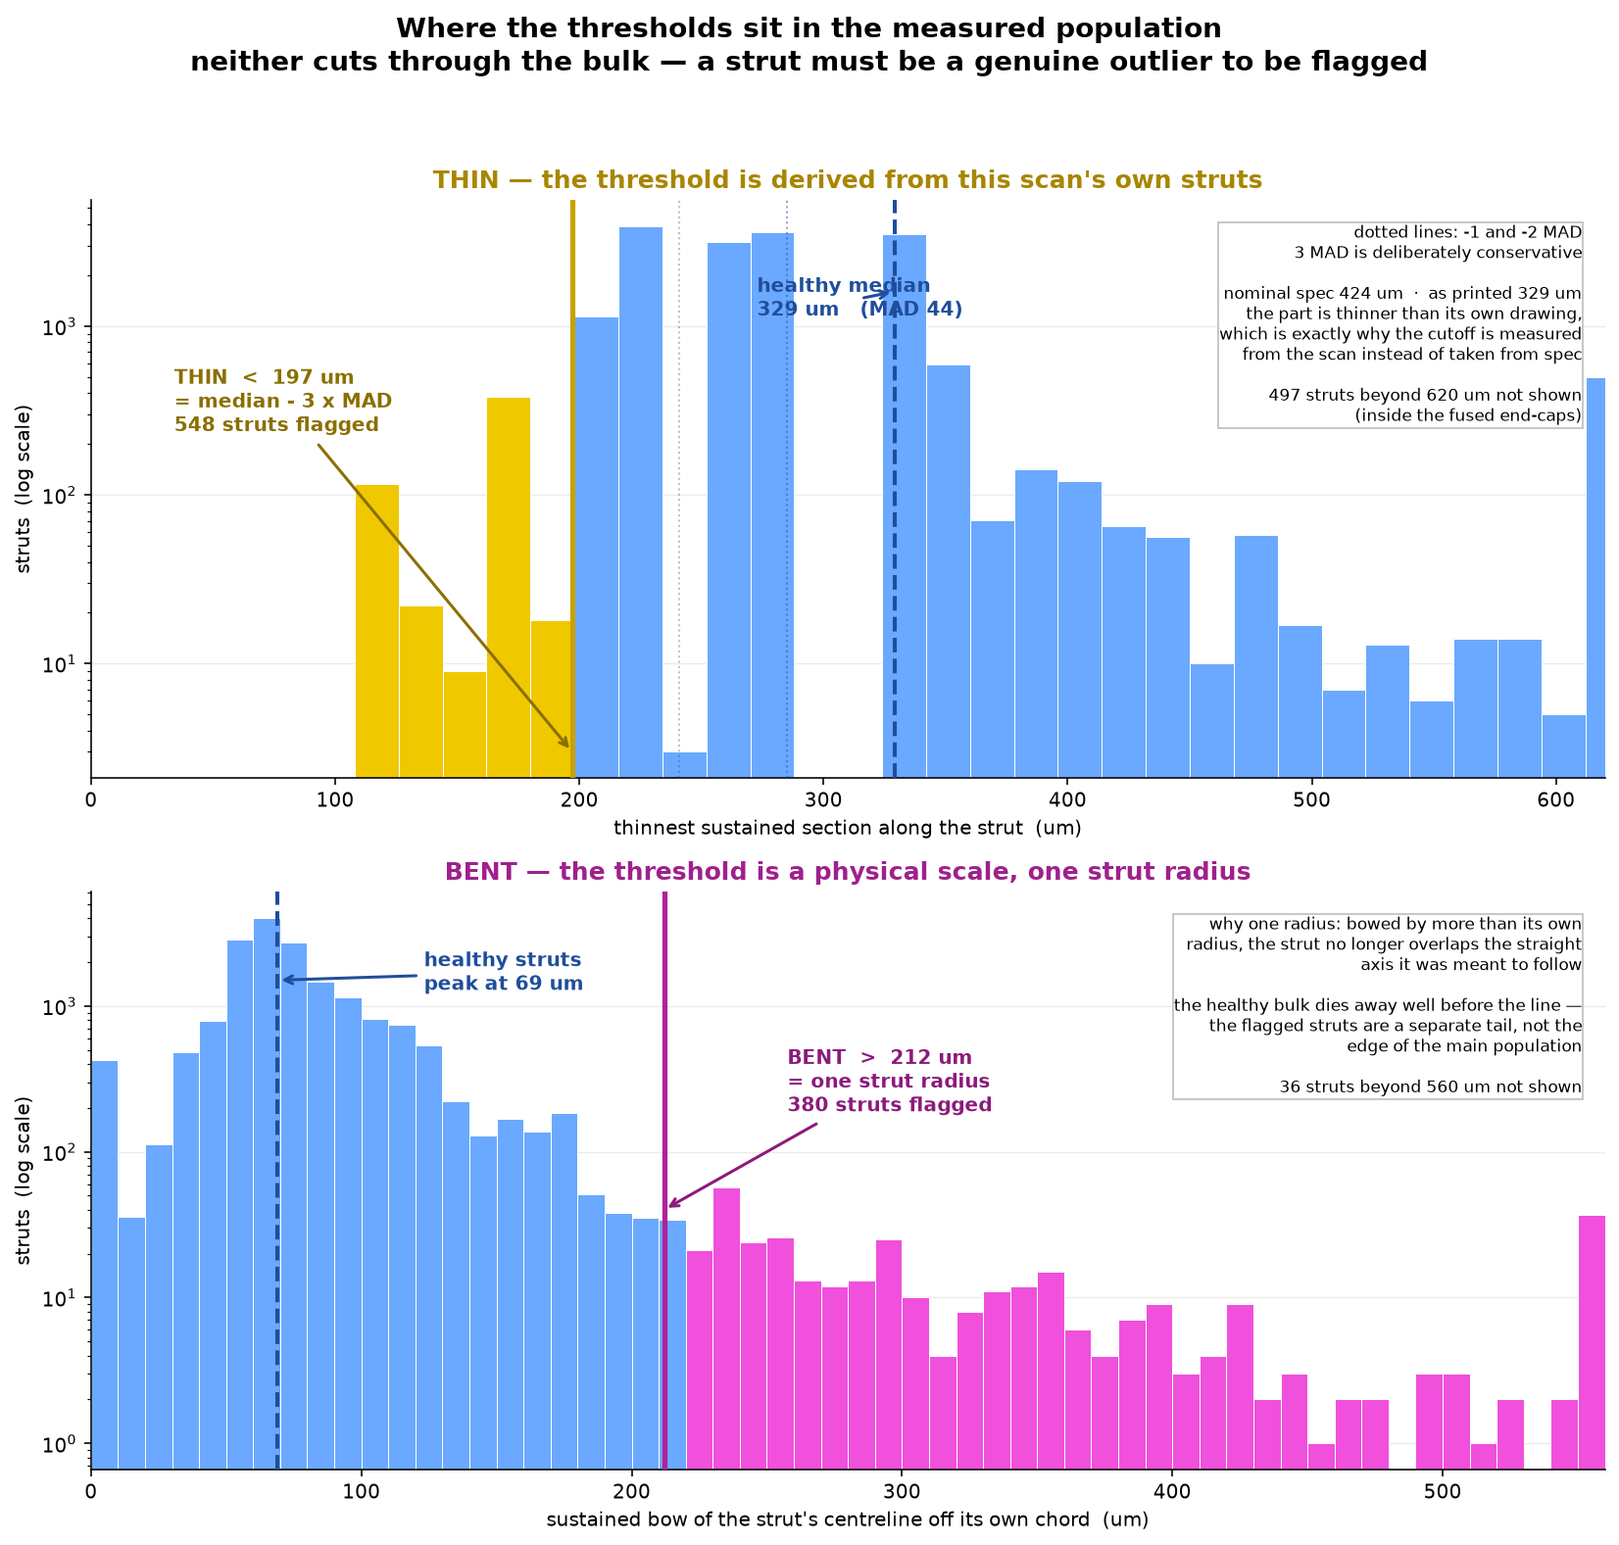
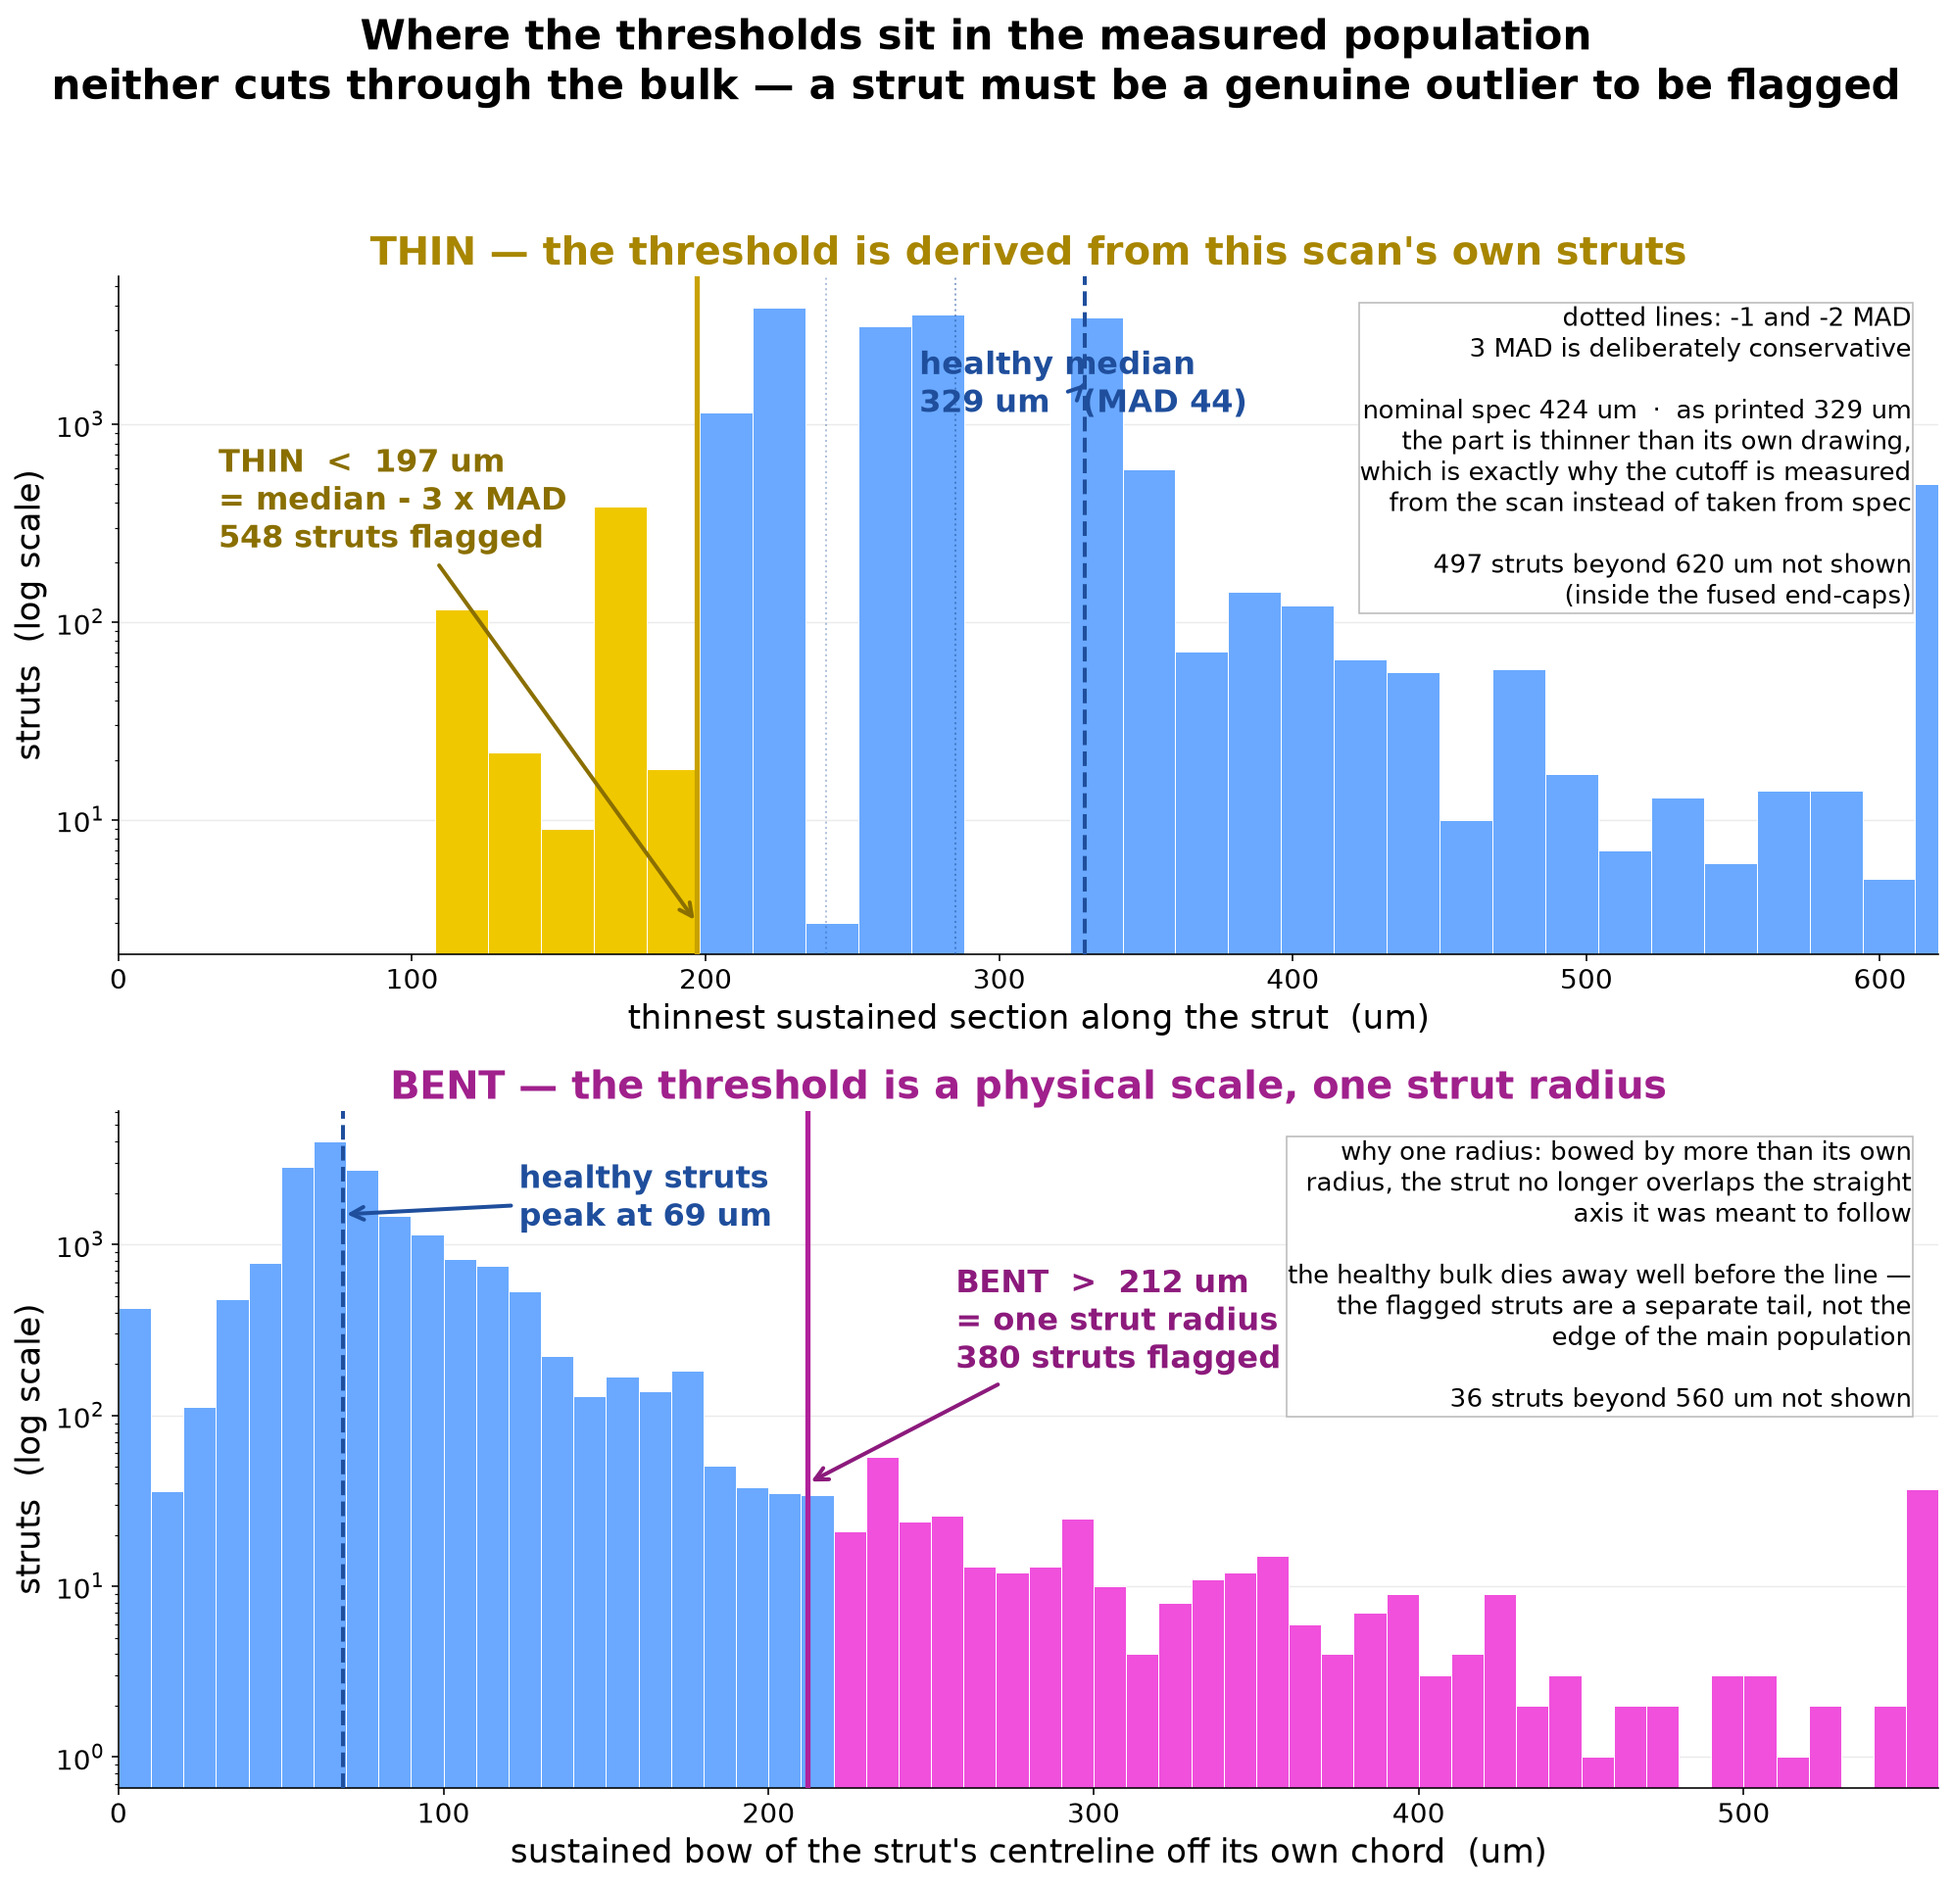
Scale up the threshold figures for presentation
Type sizes were set for reading on a page; these get read off a slide. Titles
19-20pt, axis labels 17pt, callouts 16pt, ticks 14pt, and the canvas grown to
match so nothing crowds. Also moved the "healthy median" annotation, whose
arrow was cutting through its own text.

Numbers are unchanged: thin < 197 um (548 flagged), bent > 212 um (380 flagged).

diff --git a/analysis/defect_detection/v2/plot_thresholds.py b/analysis/defect_detection/v2/plot_thresholds.py
@@ -20,6 +20,15 @@ import matplotlib
 matplotlib.use("Agg")
 import matplotlib.pyplot as plt
 
+# presentation-scale type: these figures are read from a slide, not a page
+plt.rcParams.update({
+    "font.size": 15,
+    "axes.titlesize": 19,
+    "axes.labelsize": 16,
+    "xtick.labelsize": 14,
+    "ytick.labelsize": 14,
+})
+
 V2 = Path(__file__).resolve().parent
 sys.path.insert(0, str(V2))
 from detect_v2 import OUT_JSON, UM, NOM_D  # noqa: E402
@@ -66,18 +75,18 @@ def thin_panel(ax, S, thr):
     n_flag = int((v < cut).sum())
     ax.set_yscale("log")
     ax.set_xlim(0, hi)
-    ax.set_xlabel("thinnest sustained section along the strut  (um)", fontsize=10)
-    ax.set_ylabel("struts  (log scale)", fontsize=10)
+    ax.set_xlabel("thinnest sustained section along the strut  (um)", fontsize=17)
+    ax.set_ylabel("struts  (log scale)", fontsize=17)
     ax.set_title("THIN — the threshold is derived from this scan's own struts",
-                 fontsize=12.5, fontweight="bold", color="#a88600")
+                 fontsize=20, fontweight="bold", color="#a88600")
     ax.annotate(f"THIN  <  {cut:.0f} um\n= median - 3 x MAD\n{n_flag:,} struts flagged",
                 xy=(cut, 3), xytext=(0.055, 0.60), textcoords="axes fraction",
-                fontsize=10, fontweight="bold", color="#8a6f00",
-                arrowprops=dict(arrowstyle="->", color="#8a6f00", lw=1.5))
+                fontsize=16, fontweight="bold", color="#8a6f00",
+                arrowprops=dict(arrowstyle="->", color="#8a6f00", lw=2.0))
     ax.annotate(f"healthy median\n{med:.0f} um   (MAD {mad:.0f})",
                 xy=(med, 1600), xytext=(0.44, 0.80), textcoords="axes fraction",
-                fontsize=10, fontweight="bold", color="#1f4e9c",
-                arrowprops=dict(arrowstyle="->", color="#1f4e9c", lw=1.5))
+                fontsize=16, fontweight="bold", color="#1f4e9c",
+                arrowprops=dict(arrowstyle="->", color="#1f4e9c", lw=2.0))
     ax.text(0.985, 0.96,
             f"dotted lines: -1 and -2 MAD\n"
             f"3 MAD is deliberately conservative\n\n"
@@ -87,7 +96,7 @@ def thin_panel(ax, S, thr):
             f"from the scan instead of taken from spec"
             + (f"\n\n{n_clip} struts beyond {hi:.0f} um not shown\n"
                f"(inside the fused end-caps)" if n_clip else ""),
-            transform=ax.transAxes, ha="right", va="top", fontsize=8.6,
+            transform=ax.transAxes, ha="right", va="top", fontsize=13,
             bbox=dict(fc="white", ec="#bbb", lw=0.8, pad=0.55))
     style(ax)
     return med, mad, cut, n_flag
@@ -117,18 +126,18 @@ def bent_panel(ax, S, thr):
     ax.set_yscale("log")
     ax.set_xlim(0, hi)
     ax.set_xlabel("sustained bow of the strut's centreline off its own chord  (um)",
-                  fontsize=10)
-    ax.set_ylabel("struts  (log scale)", fontsize=10)
+                  fontsize=17)
+    ax.set_ylabel("struts  (log scale)", fontsize=17)
     ax.set_title("BENT — the threshold is a physical scale, one strut radius",
-                 fontsize=12.5, fontweight="bold", color="#a0208c")
+                 fontsize=20, fontweight="bold", color="#a0208c")
     ax.annotate(f"BENT  >  {cut:.0f} um\n= one strut radius\n{n_flag:,} struts flagged",
                 xy=(cut, 40), xytext=(0.46, 0.62), textcoords="axes fraction",
-                fontsize=10, fontweight="bold", color="#8c1a7c",
-                arrowprops=dict(arrowstyle="->", color="#8c1a7c", lw=1.5))
+                fontsize=16, fontweight="bold", color="#8c1a7c",
+                arrowprops=dict(arrowstyle="->", color="#8c1a7c", lw=2.0))
     ax.annotate(f"healthy struts\npeak at {pm:.0f} um",
                 xy=(pm, 1500), xytext=(0.22, 0.83), textcoords="axes fraction",
-                fontsize=10, fontweight="bold", color="#1f4e9c",
-                arrowprops=dict(arrowstyle="->", color="#1f4e9c", lw=1.5))
+                fontsize=16, fontweight="bold", color="#1f4e9c",
+                arrowprops=dict(arrowstyle="->", color="#1f4e9c", lw=2.0))
     ax.text(0.985, 0.96,
             "why one radius: bowed by more than its own\n"
             "radius, the strut no longer overlaps the straight\n"
@@ -138,7 +147,7 @@ def bent_panel(ax, S, thr):
             "edge of the main population"
             + (f"\n\n{n_clip} struts beyond {hi:.0f} um not shown"
                if n_clip else ""),
-            transform=ax.transAxes, ha="right", va="top", fontsize=8.6,
+            transform=ax.transAxes, ha="right", va="top", fontsize=13,
             bbox=dict(fc="white", ec="#bbb", lw=0.8, pad=0.55))
     style(ax)
     return pm, cut, n_flag
@@ -149,19 +158,19 @@ def main():
     d = json.load(open(OUT_JSON))
     S, thr = d["struts"], d["meta"]["thresholds"]
 
-    fig, axes = plt.subplots(2, 1, figsize=(11.5, 11), facecolor="white")
+    fig, axes = plt.subplots(2, 1, figsize=(14, 13.5), facecolor="white")
     med, mad, tcut, tn = thin_panel(axes[0], S, thr)
     pm, bcut, bn = bent_panel(axes[1], S, thr)
     fig.suptitle("Where the thresholds sit in the measured population\n"
                  "neither cuts through the bulk — a strut must be a genuine "
                  "outlier to be flagged",
-                 fontsize=14, fontweight="bold", y=0.985)
+                 fontsize=21, fontweight="bold", y=0.985)
     fig.tight_layout(rect=[0, 0, 1, 0.955])
     fig.savefig(OUT / "threshold_justification.png", dpi=145,
                 bbox_inches="tight", facecolor="white")
 
     for name, fn, col in (("thin", thin_panel, None), ("bent", bent_panel, None)):
-        f, a = plt.subplots(figsize=(11, 5.6), facecolor="white")
+        f, a = plt.subplots(figsize=(14, 7.2), facecolor="white")
         fn(a, S, thr)
         f.tight_layout()
         f.savefig(OUT / f"threshold_{name}.png", dpi=145,
